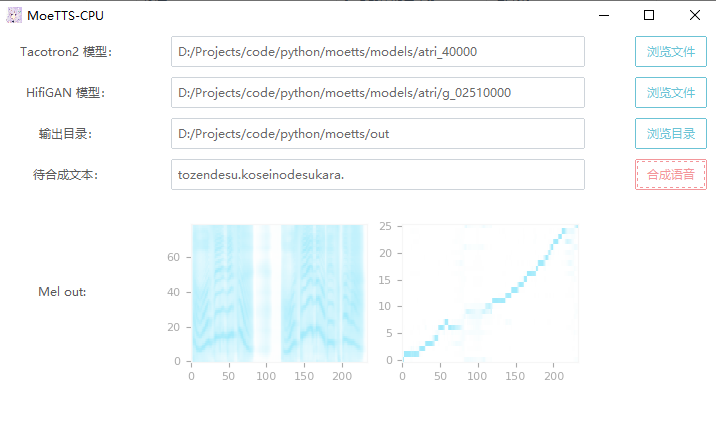
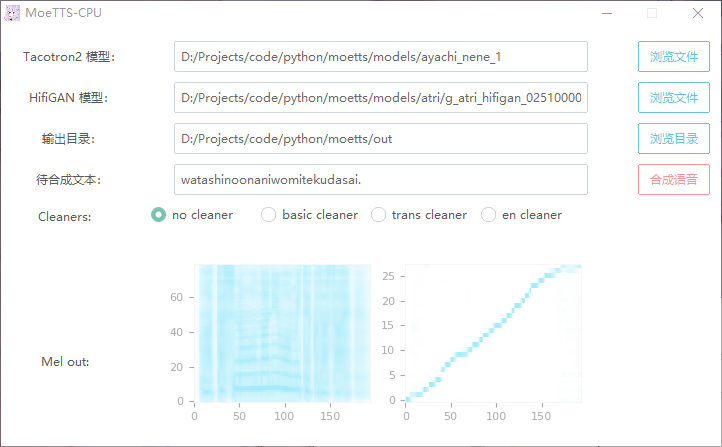
add cleaners choice

diff --git a/moe_tts_cpu.py b/moe_tts_cpu.py
@@ -9,6 +9,11 @@ from matplotlib.figure import Figure
 from matplotlib.colors import LinearSegmentedColormap
 
 is_init_model= False
+cleaner_name = 'no_cleaners'
+
+def set_cleaner(name):
+    global cleaner_name
+    cleaner_name = name
 
 def file_locate(entry_box):
     global is_init_model
@@ -31,7 +36,7 @@ def inference(tts_model, hifigan_model, target_text, output):
     def synthesis():
         global label_img, img
         text = target_text
-        sequence = np.array(text_to_sequence(text, ['basic_cleaners']))[None, :]
+        sequence = np.array(text_to_sequence(text, [cleaner_name]))[None, :]
         sequence = torch.autograd.Variable(torch.from_numpy(sequence)).cpu().long()
 
         mel_outputs, mel_outputs_postnet, _, alignments = model.inference(sequence)
@@ -64,7 +69,7 @@ def inference(tts_model, hifigan_model, target_text, output):
         im = Image.fromarray(rgba)
         img = ImageTk.PhotoImage(im)
         label_img = ttk.Label(root, image=img)
-        label_img.grid(row=5, column=2, padx=0, pady=5)
+        label_img.grid(row=5, column=2, padx=0, pady=(40,5))
 
         from scipy.io.wavfile import write
         with torch.no_grad():
@@ -130,21 +135,21 @@ def inference(tts_model, hifigan_model, target_text, output):
     
 
 root = tk.Tk()
-root.geometry("720x400")
+root.geometry("720x420")
 root.title('MoeTTS-CPU')
 root.iconbitmap('./favicon.ico')
 style = ttk.Style("minty")
 
 # Tacotron2 model path select
 tts_mp_label = ttk.Label(text='Tacotron2 模型：')
-tts_mp_label.grid(row=1, column=1, padx=(20, 5), pady=5)
+tts_mp_label.grid(row=1, column=1, padx=(20, 5), pady=(15,5))
 
 
 tts_mp = ttk.Entry()
-tts_mp.grid(row=1, column=2, padx=10, pady=5, ipadx=130)
+tts_mp.grid(row=1, column=2, padx=20, pady=(15, 5), ipadx=130)
 
 tts_mp_btn = ttk.Button(root, text="浏览文件", bootstyle=(INFO, OUTLINE), command=lambda :file_locate(tts_mp))
-tts_mp_btn.grid(row=1, column=3, padx=5, pady=5)
+tts_mp_btn.grid(row=1, column=3, padx=5, pady=(15, 5))
 
 # hifigan model path select
 hg_mp_label = ttk.Label(text='HifiGAN 模型：')
@@ -152,7 +157,7 @@ hg_mp_label.grid(row=2, column=1, padx=(20, 5), pady=5)
 
 
 hg_mp = ttk.Entry()
-hg_mp.grid(row=2, column=2, padx=10, pady=5, ipadx=130)
+hg_mp.grid(row=2, column=2, padx=20, pady=5, ipadx=130)
 
 hg_mp_btn = ttk.Button(root, text="浏览文件", bootstyle=(INFO, OUTLINE), command=lambda :file_locate(hg_mp))
 hg_mp_btn.grid(row=2, column=3, padx=5, pady=5)
@@ -163,7 +168,7 @@ out_label.grid(row=3, column=1, padx=(20, 5), pady=5)
 
 
 out = ttk.Entry()
-out.grid(row=3, column=2, padx=10, pady=5, ipadx=130)
+out.grid(row=3, column=2, padx=20, pady=5, ipadx=130)
 
 out_btn = ttk.Button(root, text="浏览目录", bootstyle=(INFO, OUTLINE), command=lambda :directory_locate(out))
 out_btn.grid(row=3, column=3, padx=5, pady=5)
@@ -174,19 +179,34 @@ text_label.grid(row=4, column=1, padx=(20, 5), pady=5)
 
 # def test():
 #     global label_img, img
+#     print(cleaner_name)
 #     img = ImageTk.PhotoImage(Image.open('test.png'))
 #     label_img = ttk.Label(image=img)
-#     label_img.grid(row=5, column=2, padx=0, pady=5)
+#     label_img.grid(row=5, column=2, padx=0, pady=(40,5))
 
 target_text = ttk.Entry()
-target_text.grid(row=4, column=2, padx=10, pady=5, ipadx=130)
+target_text.grid(row=4, column=2, padx=20, pady=5, ipadx=130)
 text_btn = ttk.Button(root, text="合成语音", bootstyle=(SECONDARY, OUTLINE), 
     command=lambda :inference(tts_mp.get(), hg_mp.get(), target_text.get(), out.get()))
     #lambda :inference(tts_mp.get(), hg_mp.get(), target_text.get(), out.get())
 text_btn.grid(row=4, column=3, padx=5, pady=5)
 
+# radio button for cleaners
+
+text_label = ttk.Label(text='Cleaners:')
+text_label.place(x=35, y=180)
+radio1 = ttk.Radiobutton(root, text="no cleaner", value=1, command=lambda:set_cleaner('no_cleaners'))
+radio1.place(x=150, y=180)
+radio2 = ttk.Radiobutton(root, text="basic cleaner", value=2, command=lambda:set_cleaner('basic_cleaners'))
+radio2.place(x=260, y=180)
+radio3 = ttk.Radiobutton(root, text="trans cleaner", value=3, command=lambda:set_cleaner('transliteration_cleaners'))
+radio3.place(x=370, y=180)
+radio4 = ttk.Radiobutton(root, text="en cleaner", value=4, command=lambda:set_cleaner('english_cleaners'))
+radio4.place(x=480, y=180)
 # Draw result
 res_label = ttk.Label(text='Mel out:')
-res_label.grid(row=5, column=1, padx=5, pady=5)
-
+res_label.grid(row=5, column=1, padx=5, pady=(100,5))
+root.resizable(0,0)
 root.mainloop()
+# compile
+# pyinstaller -i favicon.ico --noconsole 

diff --git a/README.md b/README.md
@@ -15,7 +15,7 @@ Tacotron2: https://github.com/NVIDIA/tacotron2
 
 ![软件界面](assets/start.png)
 
-打开软件后，分别选择您的模型路径与输出目录，最后输入待合成文本，点击`合成语音`等待一会软件会将音频输出到`输出目录/outpus.wav`
+打开软件后，分别选择您的模型路径与输出目录，选择Cleaners（看模型作者要求选），最后输入待合成文本，点击`合成语音`等待一会软件会将音频输出到`输出目录/outpus.wav`
 
 注意事项：
 
@@ -36,6 +36,8 @@ x. 模型名
 
 描述：角色xxx的模型
 
+模型输入：
+
 下载地址：
 
 配套Hifigan模型下载：选填
@@ -48,10 +50,12 @@ x. 模型名
 
    描述：游戏 ATRI- My dear moments 的角色ATRI模型
 
+   模型输入：无空格罗马音，标点可保留英文逗号句号。Cleaners选择basic_cleaners。例如：`tozendesu.koseinodesukara.`
+
    下载地址：链接：https://pan.baidu.com/s/1hJIbIX0r1UpI3UEtsp-6EA?pwd=jdi4 提取码：jdi4
 
    配套HifiGAN模型下载：链接：https://pan.baidu.com/s/1PGU8XEs5wy4ppJL6GjTgMQ?pwd=24g8 提取码：24g8
-
+   
    详细信息：从游戏中选择1300条语音训练，训练约600 Epoch
 
 ## 常见QA
